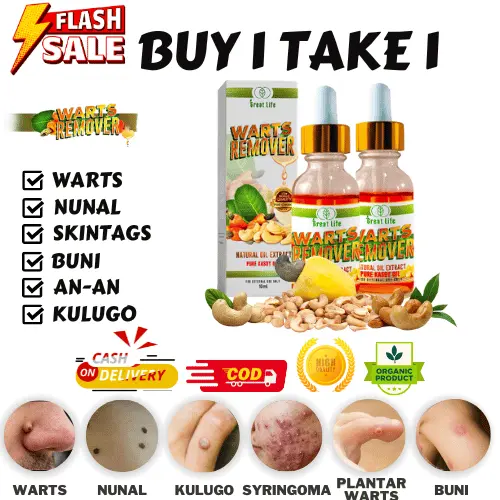
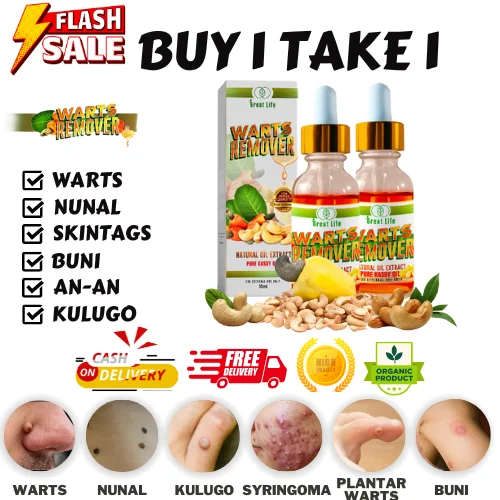
free shipping

diff --git a/resources/views/pages/fbads/index.blade.php b/resources/views/pages/fbads/index.blade.php
@@ -424,13 +424,18 @@
             <source src="movie.ogg" type="video/ogg">
         </video>
 
-        <img src="{{ asset('images/kasoy_oil/doc_willie.webp') }}" class="tw-full tmy-5" alt="doc_willie">
+            <img src="{{ asset('images/kasoy_oil/doc_willie.webp') }}" class="tw-full tmy-5" alt="doc_willie">
      
 
         {{-- REVIEWS --}}
-            <img class="" src="{{ asset('images\icons\promises\fda.webp') }}" alt="fda">
+        <img class="" src="{{ asset('images\icons\promises\fda.webp') }}" alt="fda">
 
-            <div class="tmx-auto trelative tborder tpx-5 tpb-5">
+        <div class="tmx-auto trelative tborder tpx-5 tpb-5">
+            <div class="tflex tfont-medium titems-center ttext-center">
+                <img src="{{ asset('images\icons\free-shipping.png') }}" style="height: 120px;" alt="">
+                <span>Nationwide <br> Luzon, Visayas & Mindanao </span>
+            </div>
+            {{-- Lorem ipsum dolor sit amet consectetur adipisicing elit. Eligendi nisi, quod, porro temporibus asperiores, dolore exercitationem omnis incidunt molestias dolores similique quibusdam cum at illum dolor cupiditate quia molestiae eius. --}}
 
             <section class="tflex titems-baseline tmt-5">
                 <div class="ttext-center">
